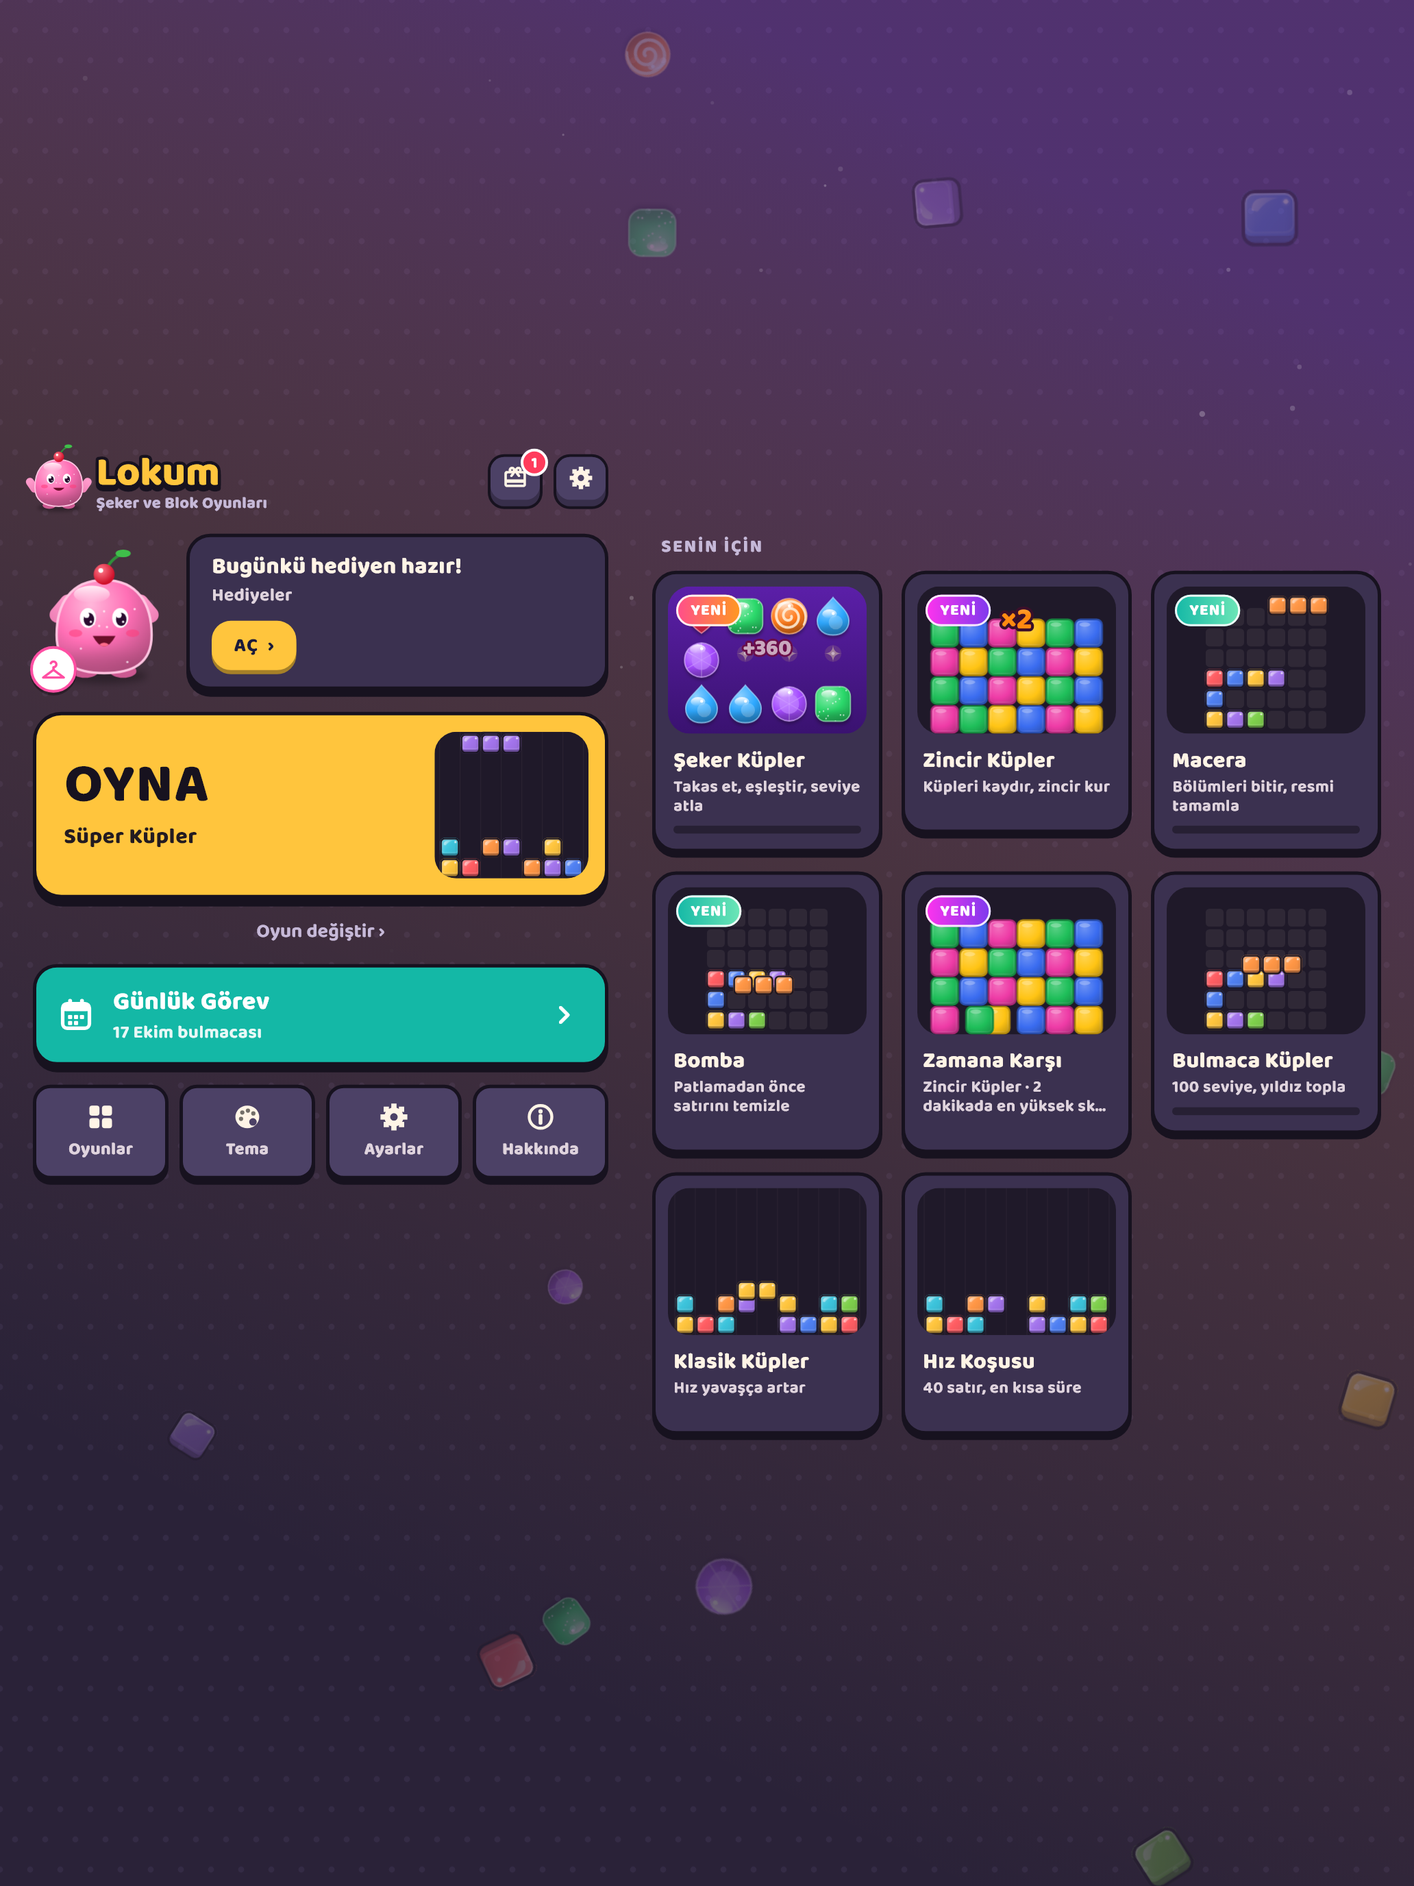
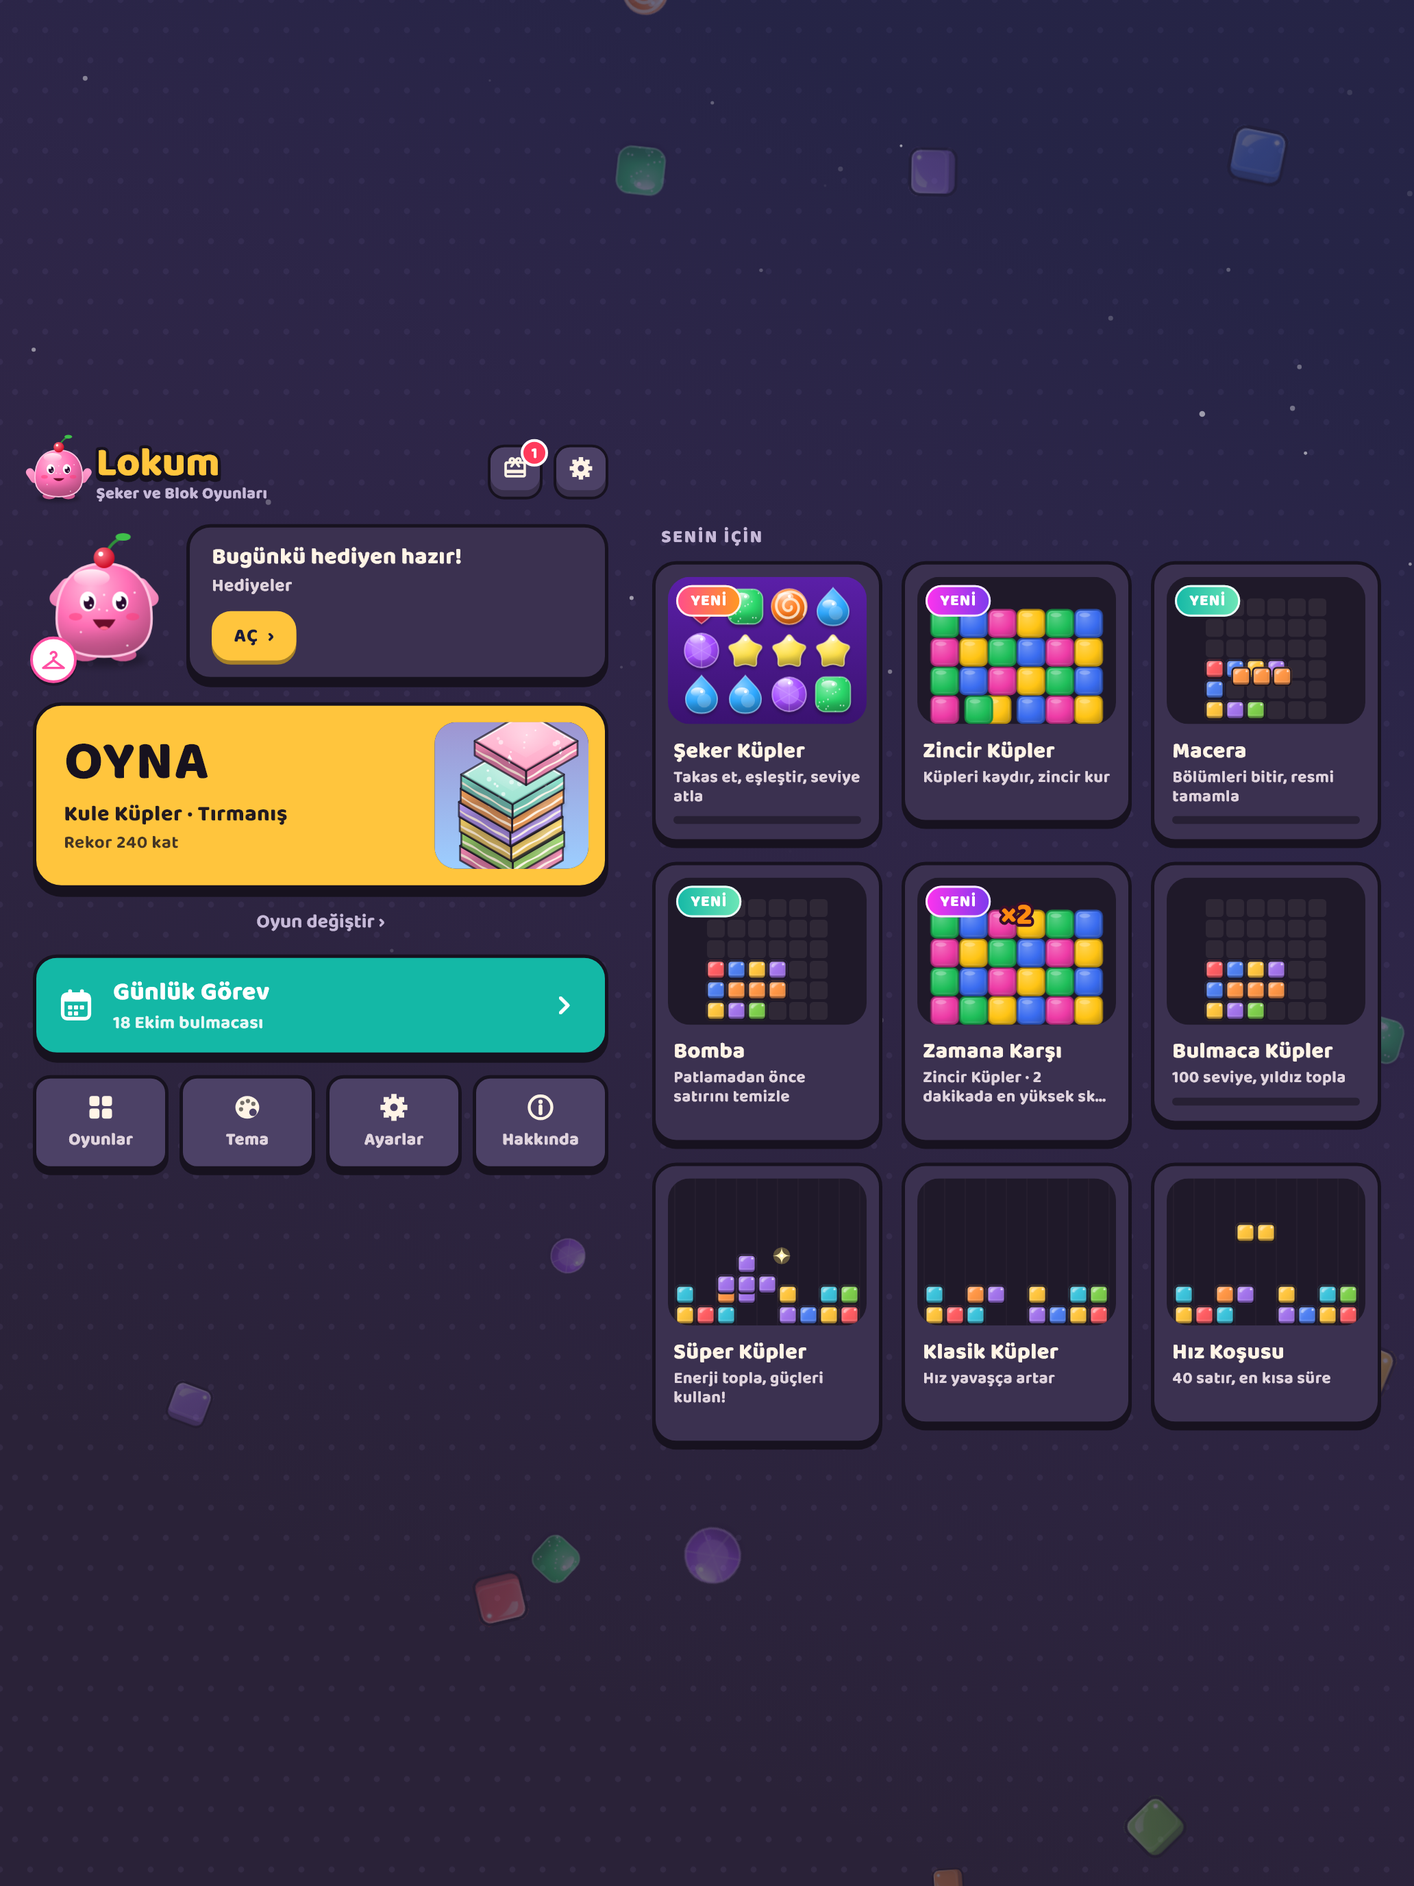
App Store: screenshots and texts for Kule Küpler and the games page
Ten new screenshots per language and device: the home screen with Kule
Küpler on the play card, a perfect run in the clouds, İstanbul'u İnşa Et,
Şeker Küpler and the Ekşi Limon final, the games page, Vapur Hattı, a
match against Limon, Bulmaca and a four-line clear. The subtitle,
keywords, promotional text, description (a Kule Küpler section first),
TestFlight texts and review notes tell of the new game, in Turkish and
English.

The games page fits tablets and desktops: larger cards side by side, the
scene on top. Over the tower, a new perfect drop's word replaces the last.

diff --git a/tool/store_screenshots_test.dart b/tool/store_screenshots_test.dart
@@ -4,6 +4,7 @@
 // exact pixel sizes App Store Connect asks for (iPhone 6.9", iPad 13"); the
 // two-digit number keeps them in order (App Store Connect takes ten).
 import 'dart:io';
+import 'dart:math';
 import 'dart:ui' as ui;
 
 import 'package:flutter/material.dart';
@@ -12,22 +13,24 @@ import 'package:flutter/services.dart';
 import 'package:flutter_test/flutter_test.dart';
 import 'package:lifeos_kupler/app.dart';
 import 'package:lifeos_kupler/audio/audio_service.dart';
-import 'package:lifeos_kupler/core/chain/chain_game.dart';
 import 'package:lifeos_kupler/core/chain/chain_versus.dart';
 import 'package:lifeos_kupler/core/sugar/sugar_game.dart';
 import 'package:lifeos_kupler/core/sugar/sugar_levels.dart';
 import 'package:lifeos_kupler/core/sugar/sugar_solver.dart';
 import 'package:lifeos_kupler/core/tetris_game.dart';
+import 'package:lifeos_kupler/core/tower/tower_game.dart';
 import 'package:lifeos_kupler/game/blocks/blocks_controller.dart';
 import 'package:lifeos_kupler/game/chain/chain_controller.dart';
 import 'package:lifeos_kupler/game/game_controller.dart';
 import 'package:lifeos_kupler/game/sugar/sugar_controller.dart';
+import 'package:lifeos_kupler/game/tower/tower_controller.dart';
 import 'package:lifeos_kupler/l10n/strings.dart';
 import 'package:lifeos_kupler/settings/settings.dart';
 import 'package:lifeos_kupler/ui/blocks_screen.dart';
 import 'package:lifeos_kupler/ui/chain_screen.dart';
 import 'package:lifeos_kupler/ui/game_screen.dart';
 import 'package:lifeos_kupler/ui/sugar_screen.dart';
+import 'package:lifeos_kupler/ui/tower_screen.dart';
 
 /// Output folder (`SHOTS_OUT`).
 final String _out = Platform.environment['SHOTS_OUT'] ?? 'ios/metadata/screenshots/';
@@ -74,10 +77,27 @@ Future<void> _shot(WidgetTester tester, String path, double dpr) async {
     ..writeAsBytesSync(bytes!);
 }
 
-/// Opens the modes page from the home screen and picks [name].
+/// The card on the games page that leads to [mode].
+String _gameOf(String mode) => switch (mode) {
+  'sugar' => 'sugar',
+  'superMode' => 'superGame',
+  'blocksLevels' || 'blocksEndless' || 'adventure' || 'bomb' => 'puzzle',
+  _ when mode.startsWith('chain') => 'chain',
+  _ when mode.startsWith('tower') => 'tower',
+  _ => 'classic',
+};
+
+/// Opens the games page from the home screen, then [name]'s game and [name].
 Future<void> _startMode(WidgetTester tester, String name) async {
   await tester.tap(find.byKey(const ValueKey('change-mode')));
   await _pump(tester, 10, 40);
+  final game = ValueKey('game-${_gameOf(name)}');
+  await tester.ensureVisible(find.byKey(game, skipOffstage: false));
+  await tester.pump(const Duration(milliseconds: 40));
+  await tester.tap(find.byKey(game));
+  await _pump(tester, 10, 40);
+  // A game of one mode starts at once.
+  if (name == 'sugar' || name == 'superMode') return;
   final card = find.byKey(ValueKey('mode-$name'));
   await tester.ensureVisible(find.byKey(ValueKey('mode-$name'), skipOffstage: false));
   await tester.pump(const Duration(milliseconds: 40));
@@ -106,6 +126,32 @@ void _stack(TetrisGame game) {
 }
 
 typedef _Scene = Future<void> Function(WidgetTester tester, Settings settings);
+
+/// A Kule Küpler tower [height] floors tall, built straight in (no chests on
+/// the way): a few cuts, the width grown back now and then.
+void _tower(TowerController c, int height) {
+  final g = c.game;
+  final rnd = Random(height);
+  var cu = 0.0, cv = 0.0, a = 1.0, b = 1.0;
+  for (var i = 1; i <= height; i++) {
+    final cut = rnd.nextDouble() < 0.18 ? (rnd.nextDouble() - 0.5) * 0.16 : 0.0;
+    if (i.isEven) {
+      a = max(0.6, a - cut.abs() / 2);
+      cu += cut / 2;
+    } else {
+      b = max(0.6, b - cut.abs() / 2);
+      cv += cut / 2;
+    }
+    if (i % 9 == 0) {
+      a = min(1, a + 0.1);
+      b = min(1, b + 0.1);
+    }
+    g.floors.add(TowerFloor(cu: cu, cv: cv, a: a, b: b, flavor: (i * 5 + rnd.nextInt(2)) % 6));
+  }
+  g.axis = height.isEven ? TowerAxis.v : TowerAxis.u;
+  c.dropped = true;
+  c.camera = max(0, g.height - 5.5);
+}
 
 /// Şeker Küpler with levels 1..[done] passed and the stories read (but
 /// [unseen]'s), up to the start panel of the next level.
@@ -139,7 +185,32 @@ Future<void> _sugarMoves(WidgetTester tester, SugarController c, int moves) asyn
 }
 
 final Map<String, _Scene> _scenes = {
-  'menu': (tester, settings) async {},
+  // The home screen, Kule Küpler on the play card.
+  'menu': (tester, settings) async {
+    settings.lastPlay = 'towerClimb';
+    settings.recordTowerRun(mode: TowerMode.climb, floors: 240, seconds: 600);
+    await _pump(tester, 30);
+  },
+  // Kule Küpler in the clouds: a perfect run, stars bursting off the top.
+  'tower': (tester, settings) async {
+    settings.recordTowerRun(mode: TowerMode.climb, floors: 240, seconds: 600);
+    await _startMode(tester, 'towerClimb');
+    final c = (tester.state(find.byType(TowerScreen)) as dynamic).c as TowerController;
+    _tower(c, 124);
+    for (var i = 0; i < 4; i++) {
+      c.game.position = 0;
+      c.tap();
+      await _pump(tester, i < 3 ? 14 : 4);
+    }
+    c.game.position = -0.9;
+  },
+  // İstanbul'u İnşa Et: Kız Kulesi rising.
+  'build': (tester, settings) async {
+    settings.recordTowerRun(mode: TowerMode.climb, floors: 1140, seconds: 3000);
+    settings.claimLandmarks();
+    await _startMode(tester, 'towerBuild');
+    await _pump(tester, 30);
+  },
   // Şeker Küpler mid-level: specials on the board, the rush meter filling.
   'sugar': (tester, settings) async {
     final c = (await _sugar(tester, settings, 51))!;
@@ -158,10 +229,15 @@ final Map<String, _Scene> _scenes = {
     await _sugarMoves(tester, c, 4);
     await _pump(tester, 40);
   },
-  // A chapter's İstanbul story card.
-  'story': (tester, settings) async {
-    await _sugar(tester, settings, 80, unseen: 8, play: false);
-    await _pump(tester, 30);
+  // The games page: every game with its scene, its modes, the last played.
+  'games': (tester, settings) async {
+    settings.lastPlay = 'chainMissions';
+    settings.recordTowerRun(mode: TowerMode.climb, floors: 240, seconds: 600);
+    for (var n = 1; n <= 30; n++) {
+      settings.recordSugarLevel(n, stars: 3, score: 15000, seconds: 60);
+    }
+    await tester.tap(find.byKey(const ValueKey('change-mode')));
+    await _pump(tester, 30, 40);
   },
   // Bulmaca: two lines blasting at once in the jewel colours, a streak on.
   'puzzle': (tester, settings) async {
@@ -172,33 +248,6 @@ final Map<String, _Scene> _scenes = {
     c.game.streak = 3;
     c.place(1, 0, 0);
     await _pump(tester, 9);
-  },
-  // Zincir Küpler: a chain bursting, garbage on the stack.
-  'chain': (tester, settings) async {
-    settings.chainDifficulty = ChainDifficulty.normal;
-    await _startMode(tester, 'chainEndless');
-    final c = (tester.state(find.byType(ChainScreen)) as dynamic).c as ChainController;
-    await tester.tap(find.byKey(const ValueKey('chain-start')));
-    await _pump(tester, 10);
-    c.game.debugSetBoard([
-      '......',
-      '......',
-      '###...',
-      '......',
-      '......',
-      '......',
-      'G.....',
-      'BBB.Y.',
-      'GMY.BM',
-      'GYM.GB',
-      'MBGYMY',
-      'YGBMBG',
-    ]);
-    c.game.debugSetIncoming('BMYGBY');
-    c.game.stopTime = 100;
-    c.game.score = 1480;
-    c.game.setCursor(3, 7);
-    await _pump(tester, 36);
   },
   // A match against Ekşi Limon: garbage crossing between the boards.
   'versus': (tester, settings) async {
@@ -234,29 +283,20 @@ final Map<String, _Scene> _scenes = {
     await tester.sendKeyEvent(LogicalKeyboardKey.space);
     await _pump(tester, 7);
   },
-  // The bomb power aiming at the stack (its 3×3 area is shown).
-  'bomb': (tester, settings) async {
-    await _startMode(tester, 'superMode');
-    final game = _game(tester).game;
-    _stack(game);
-    game.debugGivePowers([PowerType.bomb, PowerType.bomb, PowerType.drill, PowerType.single, PowerType.gravity]);
-    await tester.sendKeyEvent(LogicalKeyboardKey.digit1);
-    await _pump(tester, 2);
-    for (var i = 0; i < 2; i++) {
-      await tester.sendKeyEvent(LogicalKeyboardKey.arrowLeft);
-      await tester.pump(const Duration(milliseconds: 33));
-    }
-    await _pump(tester, 12);
-  },
 };
+
+/// The order on the store page.
+const _order = ['menu', 'tower', 'build', 'sugar', 'limon', 'games', 'ferry', 'versus', 'puzzle', 'tetris'];
 
 void main() {
   setUpAll(_loadFonts);
+  assert(_order.length == _scenes.length && _order.every(_scenes.containsKey));
 
   for (final (device, size, dpr) in _devices) {
     for (final (locale, language) in _locales) {
       var n = 0;
-      for (final MapEntry(key: name, value: scene) in _scenes.entries) {
+      for (final name in _order) {
+        final scene = _scenes[name]!;
         final index = ++n;
         testWidgets('$device $locale $name', (tester) async {
           tester.view.physicalSize = size;

diff --git a/lib/ui/home_menu.dart b/lib/ui/home_menu.dart
@@ -525,6 +525,10 @@ class _ModesPageState extends State<_ModesPage> with SingleTickerProviderStateMi
                 physics: const NeverScrollableScrollPhysics(),
                 children: children,
               );
+              // Games in one column on a phone, larger cards side by side on a
+              // tablet or a desktop.
+              final gameColumns = width >= 1100 ? 3 : (width >= 600 ? 2 : 1);
+              final gameExtent = gameColumns == 1 ? 112 * k : max(112 * k, min(300.0, (width - 32 - 12 * (gameColumns - 1)) / gameColumns * 0.58));
               Widget label(String text) => Padding(padding: const EdgeInsets.fromLTRB(4, 20, 0, 8), child: CardLabel(text));
               return Center(
                 child: ConstrainedBox(
@@ -559,7 +563,7 @@ class _ModesPageState extends State<_ModesPage> with SingleTickerProviderStateMi
                       ),
                       const SizedBox(height: 16),
                       if (game == null)
-                        grid(width >= 900 ? 3 : (width >= 600 ? 2 : 1), 112 * k, [
+                        grid(gameColumns, gameExtent, [
                           for (final g in _Game.values) _GameCard(game: g, settings: settings, clock: _clock, onTap: () => _openGame(g)),
                         ])
                       else ...[
@@ -625,68 +629,96 @@ class _GameCard extends StatelessWidget {
         child: Container(
           padding: const EdgeInsets.all(9),
           decoration: _cardBox(p, selected: selected),
-          child: Row(
-            crossAxisAlignment: CrossAxisAlignment.stretch,
-            children: [
-              AspectRatio(aspectRatio: 1.2, child: _ModeScene(mode: game.modes.first, clock: clock)),
-              const SizedBox(width: 12),
-              Expanded(
-                child: Column(
-                  crossAxisAlignment: CrossAxisAlignment.start,
-                  children: [
-                    Row(
-                      children: [
-                        Expanded(
-                          child: FittedBox(
-                            fit: BoxFit.scaleDown,
-                            alignment: Alignment.centerLeft,
-                            child: Text(
-                              game.title(s),
-                              maxLines: 1,
-                              style: TextStyle(fontSize: _fs(p, 18), height: 1.15, fontWeight: FontWeight.w900, color: p.text),
-                            ),
-                          ),
-                        ),
-                        if (fresh) _Tag(s.newBadge, color: _newTone, ink: Colors.white),
-                      ],
+          child: LayoutBuilder(
+            builder: (context, box) {
+              final scene = _ModeScene(mode: game.modes.first, clock: clock);
+              final title = Row(
+                children: [
+                  Expanded(
+                    child: FittedBox(
+                      fit: BoxFit.scaleDown,
+                      alignment: Alignment.centerLeft,
+                      child: Text(
+                        game.title(s),
+                        maxLines: 1,
+                        style: TextStyle(fontSize: _fs(p, 18), height: 1.15, fontWeight: FontWeight.w900, color: p.text),
+                      ),
                     ),
-                    const SizedBox(height: 2),
-                    Text(
-                      game.blurb(s),
-                      maxLines: 2,
-                      overflow: TextOverflow.ellipsis,
-                      style: TextStyle(fontSize: _fs(p, 12.5), height: 1.2, fontWeight: FontWeight.w700, color: _second(p)),
+                  ),
+                  if (fresh) _Tag(s.newBadge, color: _newTone, ink: Colors.white),
+                ],
+              );
+              final blurb = Text(
+                game.blurb(s),
+                maxLines: 2,
+                overflow: TextOverflow.ellipsis,
+                style: TextStyle(fontSize: _fs(p, 12.5), height: 1.2, fontWeight: FontWeight.w700, color: _second(p)),
+              );
+              final tags = Row(
+                children: [
+                  if (several) ...[_Tag(s.modeCount(game.modes.length)), const SizedBox(width: 8)],
+                  if (line != null) ...[
+                    GameIcon(lineIcon, size: 14, color: selected && several ? p.accent1 : const Color(0xFFFACC15)),
+                    const SizedBox(width: 4),
+                    Expanded(
+                      child: Text(
+                        line,
+                        maxLines: 1,
+                        overflow: TextOverflow.ellipsis,
+                        style: TextStyle(fontSize: _fs(p, 12), fontWeight: FontWeight.w800, color: p.text),
+                      ),
                     ),
+                  ] else
                     const Spacer(),
-                    Row(
-                      children: [
-                        if (several) ...[_Tag(s.modeCount(game.modes.length)), const SizedBox(width: 8)],
-                        if (line != null) ...[
-                          GameIcon(lineIcon, size: 14, color: selected && several ? p.accent1 : const Color(0xFFFACC15)),
-                          const SizedBox(width: 4),
+                ],
+              );
+              final go = GameIcon(
+                several ? Icons.chevron_right_rounded : Icons.play_arrow_rounded,
+                size: 28,
+                color: several ? _second(p) : const Color(0xFFFACC15),
+              );
+              // A tall card (tablets, desktops): the scene on top.
+              if (box.maxHeight >= 180) {
+                return Column(
+                  crossAxisAlignment: CrossAxisAlignment.stretch,
+                  children: [
+                    Expanded(child: scene),
+                    const SizedBox(height: 8),
+                    Padding(
+                      padding: const EdgeInsets.symmetric(horizontal: 4),
+                      child: Row(
+                        children: [
                           Expanded(
-                            child: Text(
-                              line,
-                              maxLines: 1,
-                              overflow: TextOverflow.ellipsis,
-                              style: TextStyle(fontSize: _fs(p, 12), fontWeight: FontWeight.w800, color: p.text),
+                            child: Column(
+                              crossAxisAlignment: CrossAxisAlignment.start,
+                              mainAxisSize: MainAxisSize.min,
+                              children: [title, const SizedBox(height: 2), blurb, const SizedBox(height: 6), tags],
                             ),
                           ),
+                          const SizedBox(width: 4),
+                          go,
                         ],
-                      ],
+                      ),
                     ),
                   ],
-                ),
-              ),
-              const SizedBox(width: 4),
-              Center(
-                child: GameIcon(
-                  several ? Icons.chevron_right_rounded : Icons.play_arrow_rounded,
-                  size: 28,
-                  color: several ? _second(p) : const Color(0xFFFACC15),
-                ),
-              ),
-            ],
+                );
+              }
+              return Row(
+                crossAxisAlignment: CrossAxisAlignment.stretch,
+                children: [
+                  AspectRatio(aspectRatio: 1.2, child: scene),
+                  const SizedBox(width: 12),
+                  Expanded(
+                    child: Column(
+                      crossAxisAlignment: CrossAxisAlignment.start,
+                      children: [title, const SizedBox(height: 2), blurb, const Spacer(), tags],
+                    ),
+                  ),
+                  const SizedBox(width: 4),
+                  Center(child: go),
+                ],
+              );
+            },
           ),
         ),
       ),

diff --git a/lib/game/tower/tower_controller.dart b/lib/game/tower/tower_controller.dart
@@ -408,6 +408,8 @@ class TowerController extends ChangeNotifier {
               flashColor = const Color(0xFF8DFFB4);
             }
             if (effects) rings.add(TowerRing(e.floor, e.height));
+            // One word at a time: the new streak replaces the last.
+            labels.removeWhere((l) => l.kind != TowerLabelKind.milestone);
             labels.add(TowerLabel(TowerLabelKind.perfect, e.streak, e.height));
             if (e.grew) labels.add(TowerLabel(TowerLabelKind.grew, 0, e.height));
             if (e.streak >= 2) {
